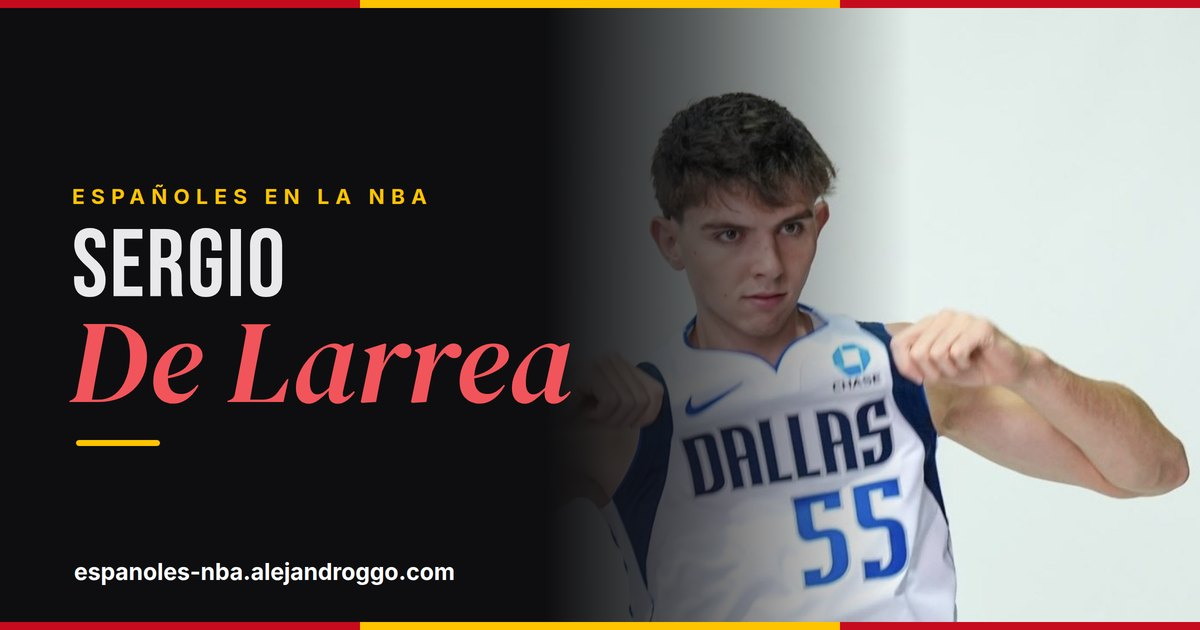
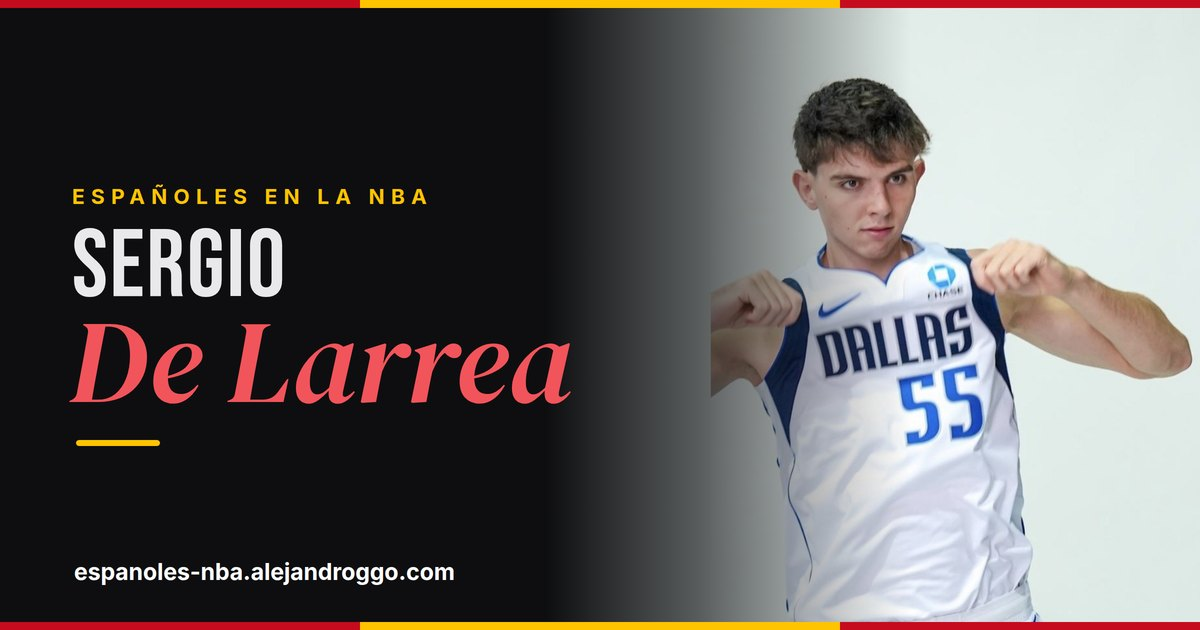
De Larrea OG más a la derecha; fotos de Rudy Fernández (perfil + tarjeta OG)
Claude-Session: https://claude.ai/code/session_01NsUdscMXuA8jAVH8ZnbVGz

Changed region(s): [[0.4933, 0.1206, 1.0, 0.9952]]

diff --git a/jugador-rudy-fernandez.html b/jugador-rudy-fernandez.html
@@ -24,11 +24,13 @@
 <meta property="og:description" content="Rudy Fernández en la NBA: 249 partidos, 9,1 pts, 2,4 reb y 2,2 ast por partido. Estadísticas, temporadas, playoffs, premios y trayectoria.">
 <meta property="og:url" content="https://espanoles-nba.alejandroggo.com/jugador-rudy-fernandez.html">
 <link rel="canonical" href="https://espanoles-nba.alejandroggo.com/jugador-rudy-fernandez.html">
-<meta property="og:image" content="https://espanoles-nba.alejandroggo.com/img/players/rudy-fernandez.jpg">
-<meta name="twitter:card" content="summary">
+<meta property="og:image" content="https://espanoles-nba.alejandroggo.com/img/og/rudy-fernandez.jpg">
+<meta property="og:image:width" content="1200">
+<meta property="og:image:height" content="630">
+<meta name="twitter:card" content="summary_large_image">
 <meta name="twitter:title" content="Rudy Fernández · Españoles en la NBA">
 <meta name="twitter:description" content="Rudy Fernández en la NBA: 249 partidos, 9,1 pts, 2,4 reb y 2,2 ast por partido. Estadísticas, temporadas, playoffs, premios y trayectoria.">
-<meta name="twitter:image" content="https://espanoles-nba.alejandroggo.com/img/players/rudy-fernandez.jpg">
+<meta name="twitter:image" content="https://espanoles-nba.alejandroggo.com/img/og/rudy-fernandez.jpg">
 <link rel="preconnect" href="https://fonts.googleapis.com">
 <link rel="preconnect" href="https://fonts.gstatic.com" crossorigin>
 <link rel="preconnect" href="https://www.basketball-reference.com">
